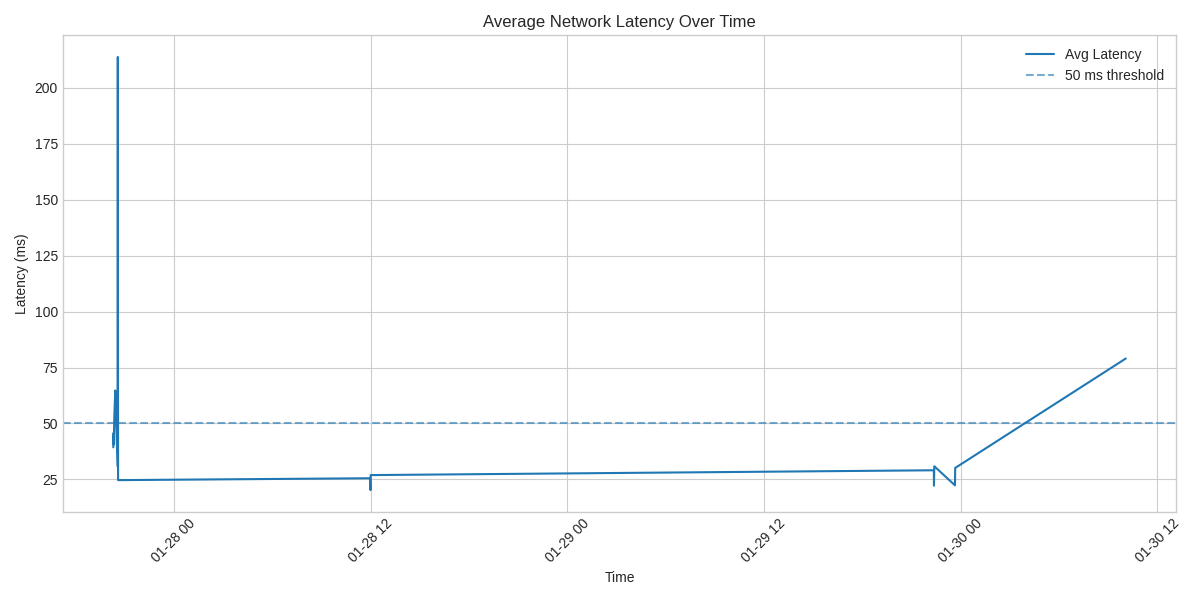
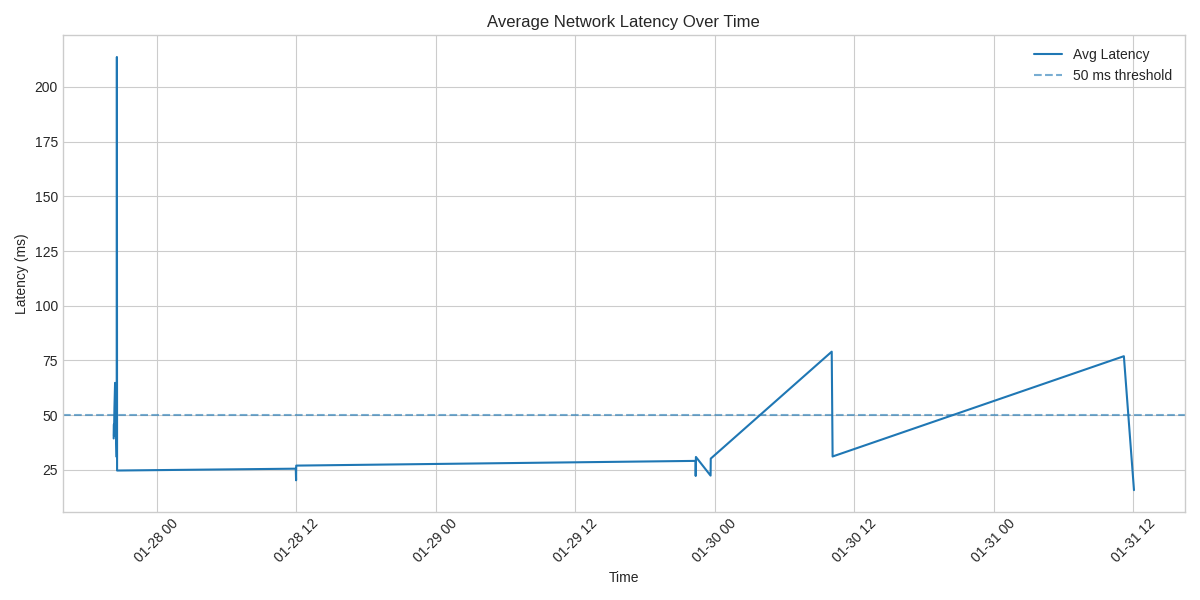
About to automate

diff --git a/internet_truth.py b/internet_truth.py
@@ -8,21 +8,35 @@ import re
 
 from u_ite.storage import init_db, save_run, generate_network_id
 
+def run_diagnostics(
+    router_ip=None,
+    internet_ip="8.8.8.8",
+    website="www.google.com",
+    url="https://www.google.com"
+):
+    """
+    Runs a single U-ITE diagnostic cycle and saves the result.
+    Designed for reuse by automation services.
+    """
+
+    ROUTER_IP = router_ip or get_default_gateway()
+    INTERNET_IP = internet_ip
+    WEBSITE_NAME = website
+    WEBSITE_URL = url
+
+    if not ROUTER_IP:
+        print("[ERROR] No active network interface detected.")
+        return
 
 
 def get_default_gateway():
-    """
-    Attempts to detect the default gateway (router IP).
-    Works on Linux/macOS/Windows.
-    """
+    """Detect default gateway (router IP)."""
     system = platform.system().lower()
 
     try:
         if system in ("linux", "darwin"):
             result = subprocess.run(
-                ["ip", "route"],
-                capture_output=True,
-                text=True
+                ["ip", "route"], capture_output=True, text=True
             )
             match = re.search(r"default via ([\d\.]+)", result.stdout)
             if match:
@@ -30,18 +44,16 @@ def get_default_gateway():
 
         elif system == "windows":
             result = subprocess.run(
-                ["ipconfig"],
-                capture_output=True,
-                text=True
+                ["ipconfig"], capture_output=True, text=True
             )
             match = re.search(r"Default Gateway[ .]*: ([\d\.]+)", result.stdout)
             if match:
                 return match.group(1)
-
     except Exception:
         pass
 
     return None
+
 
 
 # [COMMIT] feat: Parse command-line arguments
@@ -199,143 +211,151 @@ def is_valid_ip(ip):
     except socket.error:
         return False
 
-if not is_valid_ip(ROUTER_IP):
-    print(f"[ERROR] Invalid router IP detected: {ROUTER_IP}")
-    sys.exit(1)
+    if not is_valid_ip(ROUTER_IP):
+        print(f"[ERROR] Invalid router IP detected: {ROUTER_IP}")
+        sys.exit(1)
 
-router_ok = False
-internet_ok = False
-dns_ok = False
-http_ok = False
+    router_ok = False
+    internet_ok = False
+    dns_ok = False
+    http_ok = False
 
-latency = None
-loss = None
-verdict = "Unknown"
+    latency = None
+    loss = None
+    verdict = "Unknown"
 
 
-# [COMMIT] feat: Start main diagnostic flow
-print("--- U-ITE Diagnostic Check Initiated ---")
+    # [COMMIT] feat: Start main diagnostic flow
+    print("--- U-ITE Diagnostic Check Initiated ---")
 
-# Check 1: Local network (Router)
-if can_ping(ROUTER_IP):
-    router_ok = True
-    print(f"[PASS] Check 1: Router ({ROUTER_IP}) is reachable.")
-else:
-    print("[FAIL] Check 1: Router unreachable.")
-    verdict = "Local Network Failure"
-
-    print("Truth: Device is connected, but cannot reach the router.")
-    print("Action: Verify router IP, check router power, LAN cable, or Wi-Fi link.")
-
-    save_run({
-        "network_id": generate_network_id(ROUTER_IP, INTERNET_IP),
-        "router_ip": ROUTER_IP,
-        "internet_ip": INTERNET_IP,
-        "router_reachable": router_ok,
-        "internet_reachable": internet_ok,
-        "dns_ok": dns_ok,
-        "http_ok": http_ok,
-        "avg_latency": latency,
-        "packet_loss": loss,
-        "verdict": verdict
-    })
-    print("--- U-ITE Diagnostic Check Complete ---")
-    sys.exit(0)
-  # stop everything here
-
-# Check 2: Internet reachability (ISP)
-if can_ping(INTERNET_IP):
-    internet_ok = True
-    print(f"[PASS] Check 2: Public IP reachable.")
-else:
-    print("[FAIL] Check 2: Internet unreachable.")
-    verdict = "ISP Failure"
-    print("Truth: ISP is unreachable. Check your modem/router or ISP service.")
-    save_run({
-        "network_id": generate_network_id(ROUTER_IP, INTERNET_IP),
-        "router_ip": ROUTER_IP,
-        "internet_ip": INTERNET_IP,
-        "router_reachable": router_ok,
-        "internet_reachable": internet_ok,
-        "dns_ok": dns_ok,
-        "http_ok": http_ok,
-        "avg_latency": latency,
-        "packet_loss": loss,
-        "verdict": verdict
-    })
-    print("--- U-ITE Diagnostic Check Complete ---")
-    sys.exit(0)  # stop here too
-
-# Check 3: DNS resolution
-if can_resolve_dns(WEBSITE_NAME):
-    dns_ok = True
-    print("[PASS] Check 3: DNS resolution OK.")
-else:
-    print("[FAIL] Check 3: DNS failure.")
-    verdict = "DNS Failure"
-    print("Truth: DNS lookup failed. Check DNS settings or try a different DNS server.")
-    save_run({
-        "network_id": generate_network_id(ROUTER_IP, INTERNET_IP),
-        "router_ip": ROUTER_IP,
-        "internet_ip": INTERNET_IP,
-        "router_reachable": router_ok,
-        "internet_reachable": internet_ok,
-        "dns_ok": dns_ok,
-        "http_ok": http_ok,
-        "avg_latency": latency,
-        "packet_loss": loss,
-        "verdict": verdict
-    })
-    print("--- U-ITE Diagnostic Check Complete ---")
-    sys.exit(0)  # stop here
-
-# Check 4: Application layer
-if can_open_website(WEBSITE_URL):
-    http_ok = True
-    print("[PASS] Check 4: HTTP OK.")
-else:
-    print("[FAIL] Check 4: Application layer failure.")
-    verdict = "Application Failure"
-    print("Truth: Cannot reach the website. Problem may be server-side or network config.")
-    save_run({
-        "network_id": generate_network_id(ROUTER_IP, INTERNET_IP),
-        "router_ip": ROUTER_IP,
-        "internet_ip": INTERNET_IP,
-        "router_reachable": router_ok,
-        "internet_reachable": internet_ok,
-        "dns_ok": dns_ok,
-        "http_ok": http_ok,
-        "avg_latency": latency,
-        "packet_loss": loss,
-        "verdict": verdict
-    })
-    print("--- U-ITE Diagnostic Check Complete ---")
-    sys.exit(0)  # stop here
-
-# Check 5: Network quality (Latency & Packet Loss)
-latency, loss = measure_latency_and_loss(INTERNET_IP)
-if latency is not None and loss is not None:
-    print(f"[INFO] Avg latency: {latency:.2f} ms | Packet loss: {loss}%")
-    if loss >= 20 or latency >= 200:
-        verdict = "Degraded Internet"
+    # Check 1: Local network (Router)
+    if can_ping(ROUTER_IP):
+        router_ok = True
+        print(f"[PASS] Check 1: Router ({ROUTER_IP}) is reachable.")
     else:
+        print("[FAIL] Check 1: Router unreachable.")
+        verdict = "Local Network Failure"
+
+        print("Truth: Device is connected, but cannot reach the router.")
+        print("Action: Verify router IP, check router power, LAN cable, or Wi-Fi link.")
+
+        save_run({
+            "network_id": generate_network_id(ROUTER_IP, INTERNET_IP),
+            "router_ip": ROUTER_IP,
+            "internet_ip": INTERNET_IP,
+            "router_reachable": router_ok,
+            "internet_reachable": internet_ok,
+            "dns_ok": dns_ok,
+            "http_ok": http_ok,
+            "avg_latency": latency,
+            "packet_loss": loss,
+            "verdict": verdict
+        })
+        print("--- U-ITE Diagnostic Check Complete ---")
+        sys.exit(0)
+    # stop everything here
+
+    # Check 2: Internet reachability (ISP)
+    if can_ping(INTERNET_IP):
+        internet_ok = True
+        print(f"[PASS] Check 2: Public IP reachable.")
+    else:
+        print("[FAIL] Check 2: Internet unreachable.")
+        verdict = "ISP Failure"
+        print("Truth: ISP is unreachable. Check your modem/router or ISP service.")
+        save_run({
+            "network_id": generate_network_id(ROUTER_IP, INTERNET_IP),
+            "router_ip": ROUTER_IP,
+            "internet_ip": INTERNET_IP,
+            "router_reachable": router_ok,
+            "internet_reachable": internet_ok,
+            "dns_ok": dns_ok,
+            "http_ok": http_ok,
+            "avg_latency": latency,
+            "packet_loss": loss,
+            "verdict": verdict
+        })
+        print("--- U-ITE Diagnostic Check Complete ---")
+        sys.exit(0)  # stop here too
+
+    # Check 3: DNS resolution
+    if can_resolve_dns(WEBSITE_NAME):
+        dns_ok = True
+        print("[PASS] Check 3: DNS resolution OK.")
+    else:
+        print("[FAIL] Check 3: DNS failure.")
+        verdict = "DNS Failure"
+        print("Truth: DNS lookup failed. Check DNS settings or try a different DNS server.")
+        save_run({
+            "network_id": generate_network_id(ROUTER_IP, INTERNET_IP),
+            "router_ip": ROUTER_IP,
+            "internet_ip": INTERNET_IP,
+            "router_reachable": router_ok,
+            "internet_reachable": internet_ok,
+            "dns_ok": dns_ok,
+            "http_ok": http_ok,
+            "avg_latency": latency,
+            "packet_loss": loss,
+            "verdict": verdict
+        })
+        print("--- U-ITE Diagnostic Check Complete ---")
+        sys.exit(0)  # stop here
+
+    # Check 4: Application layer
+    if can_open_website(WEBSITE_URL):
+        http_ok = True
+        print("[PASS] Check 4: HTTP OK.")
+    else:
+        print("[FAIL] Check 4: Application layer failure.")
+        verdict = "Application Failure"
+        print("Truth: Cannot reach the website. Problem may be server-side or network config.")
+        save_run({
+            "network_id": generate_network_id(ROUTER_IP, INTERNET_IP),
+            "router_ip": ROUTER_IP,
+            "internet_ip": INTERNET_IP,
+            "router_reachable": router_ok,
+            "internet_reachable": internet_ok,
+            "dns_ok": dns_ok,
+            "http_ok": http_ok,
+            "avg_latency": latency,
+            "packet_loss": loss,
+            "verdict": verdict
+        })
+        print("--- U-ITE Diagnostic Check Complete ---")
+        sys.exit(0)  # stop here
+
+    # Check 5: Network quality (Latency & Packet Loss)
+    latency, loss = measure_latency_and_loss(INTERNET_IP)
+    if latency is not None and loss is not None:
+        print(f"[INFO] Avg latency: {latency:.2f} ms | Packet loss: {loss}%")
+        if loss >= 20 or latency >= 200:
+            verdict = "Degraded Internet"
+        else:
+            verdict = "Healthy"
+    else:
+        print("[WARN] Could not accurately measure network quality.")
         verdict = "Healthy"
-else:
-    print("[WARN] Could not accurately measure network quality.")
-    verdict = "Healthy"
 
-# Save final run
-save_run({
-    "network_id": generate_network_id(ROUTER_IP, INTERNET_IP),
-    "router_ip": ROUTER_IP,
-    "internet_ip": INTERNET_IP,
-    "router_reachable": router_ok,
-    "internet_reachable": internet_ok,
-    "dns_ok": dns_ok,
-    "http_ok": http_ok,
-    "avg_latency": latency,
-    "packet_loss": loss,
-    "verdict": verdict
-})
+    # Save final run
+    save_run({
+        "network_id": generate_network_id(ROUTER_IP, INTERNET_IP),
+        "router_ip": ROUTER_IP,
+        "internet_ip": INTERNET_IP,
+        "router_reachable": router_ok,
+        "internet_reachable": internet_ok,
+        "dns_ok": dns_ok,
+        "http_ok": http_ok,
+        "avg_latency": latency,
+        "packet_loss": loss,
+        "verdict": verdict
+    })
 
-print("--- U-ITE Diagnostic Check Complete ---")
+    print("--- U-ITE Diagnostic Check Complete ---")
+
+if __name__ == "__main__":
+    run_diagnostics(
+        router_ip=args.router,
+        internet_ip=args.internet_ip,
+        website=args.website,
+        url=args.url
+    )

diff --git a/automation/runner.py b/automation/runner.py
@@ -1,0 +1,28 @@
+from internet_truth import run_diagnostics
+from u_ite.storage.db import save_run
+from visualization.dashboard import generate_charts
+from utils.network import get_network_id
+
+
+def run_truth_cycle():
+    """
+    Executes one full truth cycle:
+    1. Detect network
+    2. Run diagnostics
+    3. Save results
+    4. Generate charts if saved
+    """
+    print("[L5] Starting truth cycle...")
+
+    network_id = get_network_id()
+    print(f"[L5] Network ID: {network_id}")
+
+    snapshot = run_diagnostics(network_id)
+
+    saved = save_run(snapshot)
+
+    if saved:
+        print("[L5] Truth saved. Updating charts...")
+        generate_charts()
+    else:
+        print("[L5] Nothing saved. Skipping charts.")

diff --git a/automation/service.py b/automation/service.py
@@ -1,0 +1,21 @@
+import time
+from automation.runner import run_truth_cycle
+
+INTERVAL_SECONDS = 60  # start with 60s (we can tune later)
+
+
+def start_service():
+    print("[L5] U-ITE Truth Service started.")
+    print(f"[L5] Interval: {INTERVAL_SECONDS} seconds")
+
+    while True:
+        try:
+            run_truth_cycle()
+        except Exception as e:
+            print(f"[L5][ERROR] {e}")
+
+        time.sleep(INTERVAL_SECONDS)
+
+
+if __name__ == "__main__":
+    start_service()
